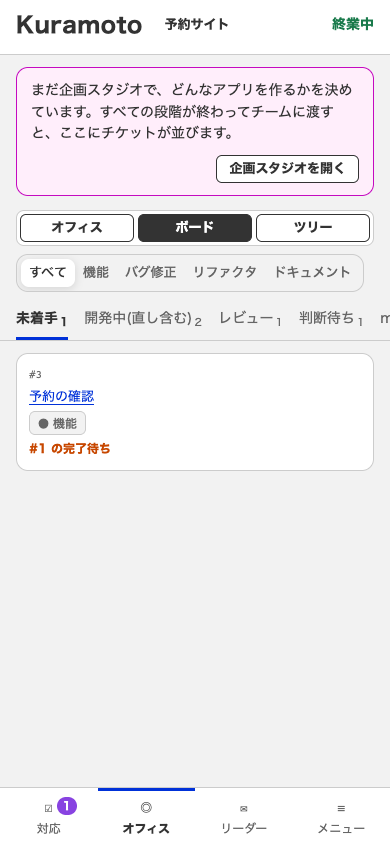
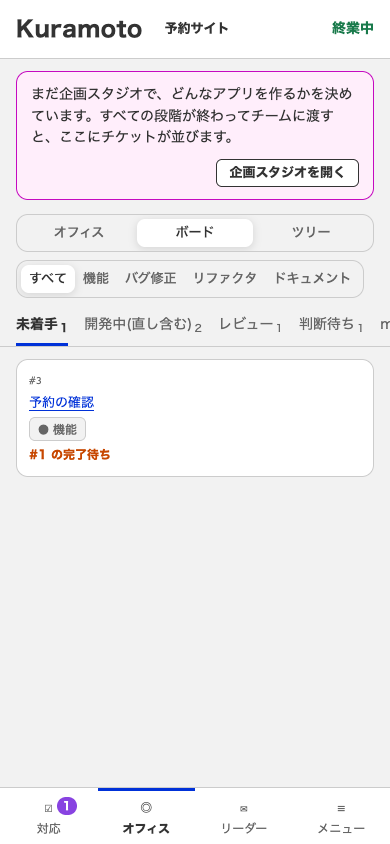
[fix] スマホ幅のオフィス/ボード/ツリーの切り替えを、試作どおりの均等幅のセグメントにする(#88)

Changed region(s): [[0.0308, 0.0, 0.9846, 0.5545], [0.9846, 0.3697, 1.0, 0.4005]]

diff --git a/ui/src/style.css b/ui/src/style.css
@@ -515,7 +515,6 @@ body { background: var(--bg); }
 .dads-bar .brand b { font-size: var(--fs-xl); letter-spacing: .02em; }
 .dads-bar .crumb { gap: 2px; }
 .dads-bar .crumb [aria-current="page"] { text-decoration: none; color: var(--ink); font-weight: 700; }
-.dads-bar .tabs { display: inline-flex; gap: 4px; padding: 0; border: 0; background: transparent; }
 .dads-bar .eff { font-size: var(--fs-base); color: var(--muted); }
 /* 共通ヘッダーの行き先は、どの画面でも同じ形・同じ位置の切り替えスイッチ(ds の SegmentNav。外枠が白、選んでいるのが灰) */
 .dads-bar .navsw { flex: none; }
@@ -1188,8 +1187,8 @@ body { background: var(--bg); }
 
 /* ---- 見方の切り替え(オフィス / ボード / ツリー)。パソコンでは右寄せの並び ---- */
 .viewhead { display: flex; align-items: center; gap: var(--sp-2); }
-/* パソコンの幅では、オフィス/ボード/ツリーの切り替えは共通ヘッダー(.viewtabs)に出す。枠の上のは、スマホの幅だけ */
-.viewsw { display: none; gap: var(--sp-1); margin-left: auto; }
+/* パソコンの幅では、オフィス/ボード/ツリーの切り替えは共通ヘッダー(.navsw)に出す。枠の上のは、スマホの幅だけ */
+.viewhead .viewsw { display: none; margin-left: auto; }
 .stagetabs, .tk-tabs, .phonebar, .phonemenu, .tk-phone, .tk-short, .tk-kindsheet { display: none; }
 /* 共通ヘッダーの引き出しのボタン: 包みは並びに影響させず、親(.bar)の gap でそのまま並べる */
 .drawerbtns { display: contents; }
@@ -1198,7 +1197,7 @@ body { background: var(--bg); }
 @media (max-width: 700px) {
   body { background: var(--bg); }
   /* スマホの試作(phone-home・phone-office・phone-board)は、ヘッダーが白い帯で、灰色の地の上に部品が白 */
-  .dads-bar { margin: calc(-1 * var(--sp-4)) calc(-1 * var(--sp-4)) 0; padding: var(--sp-3) var(--sp-4); background: var(--surface); border-bottom: 1px solid var(--line); }
+  .dads-bar { margin: calc(-1 * var(--sp-3)) calc(-1 * var(--sp-4)) 0; padding: var(--sp-3) var(--sp-4); background: var(--surface); border-bottom: 1px solid var(--line); }
   .app { padding-bottom: calc(72px + env(safe-area-inset-bottom, 0px)); }
   /* 上の行は「Kuramoto / プロジェクト名 / 稼働の状態」だけ。画面の切り替えと引き出しは、下のタブとメニューへ移す */
   .bar .tabs, .bar .navsw, .bar .drawerbtns, .bar .spacer, .bar .crumb .sep:first-of-type, .bar .crumb > .ds-btn:first-child { display: none; }
@@ -1239,8 +1238,9 @@ body { background: var(--bg); }
   /* ボード: 工程を上のタブ(件数つき、横にすべる)にして、1 列ずつ見る */
   .officepanel { background: none; border: 0; padding: 0; }
   .viewhead h2 { display: none; }
-  .viewsw { display: flex; flex: 1; margin-left: 0; padding: 3px; border: 1px solid var(--line); border-radius: var(--r-md); background: var(--surface); }
-  .viewsw > .ds-btn { flex: 1 1 0; min-width: 0; }
+  /* 試作(phone-board)どおり、幅いっぱいに均等に並ぶ切り替え(外枠が灰、選んでいるのが白) */
+  .viewhead .viewsw { display: flex; flex: 1; margin-left: 0; }
+  .viewhead .viewsw > .ds-seg__opt { flex: 1 1 0; min-width: 0; padding-inline: var(--sp-1); }
   .board-wrap { overflow-x: visible; }
   .kindbar .kindnote { display: none; }
   .stagetabs { display: flex; gap: var(--sp-4); overflow-x: auto; margin: 0 calc(-1 * var(--sp-4)) var(--sp-3); padding: 0 var(--sp-4); border-bottom: 1px solid var(--line); }

diff --git a/ui/src/OfficeViewSwitch.tsx b/ui/src/OfficeViewSwitch.tsx
@@ -1,6 +1,5 @@
 import { go } from "./hooks";
 import { setPhoneNav, usePhoneNav, type OfficeView } from "./phoneNav";
-import { Btn } from "./ui";
 import { SegmentNav, SegmentNavButton } from "./ds";
 
 export const OFFICE_VIEWS: Record<OfficeView, string> = { floor: "オフィス", board: "ボード", tree: "ツリー" };
@@ -11,21 +10,13 @@ export const OFFICE_VIEWS: Record<OfficeView, string> = { floor: "オフィス",
 export function OfficeViewSwitch({ className }: { className: string }) {
   const { view } = usePhoneNav();
   return (
-    <div role="group" aria-label="オフィスの見方" className={className}>
+    <SegmentNav label="オフィスの見方" className={className}>
       {(Object.keys(OFFICE_VIEWS) as OfficeView[]).map((v) => (
-        <Btn
-          key={v}
-          kind={view === v ? "solid-fill" : "outline"}
-          size="sm"
-          aria-pressed={view === v}
-          onClick={() => {
-            setPhoneNav({ view: v });
-          }}
-        >
+        <SegmentNavButton key={v} on={view === v} onClick={() => setPhoneNav({ view: v })}>
           {OFFICE_VIEWS[v]}
-        </Btn>
+        </SegmentNavButton>
       ))}
-    </div>
+    </SegmentNav>
   );
 }
 

diff --git a/docs/screenshots/88/README.md b/docs/screenshots/88/README.md
@@ -34,3 +34,4 @@
 - **スイッチの中身は 3 つだけ**: 試作の切り替えは オフィス / ボード / ツリー のみ。企画スタジオ・生産性・設定は試作のヘッダーに無い(metrics.html は文字の並び)。リーダーのメモ「オフィス以外も同じスイッチ形にそろえる」に従い、同じスイッチの右に 3 つ足して 1 つのスイッチにした(ここは試作と違う)。
 - **スイッチの外枠の色が試作で揃っていない**: office / board / tree は外枠が白+選択が灰、ticket / dev-rules / formation-* / metrics は外枠が灰+選択が白(白い面の上のスイッチ)。地が灰のヘッダーの上では前者が正で、白い面の上(ds の `Segmented`)は後者のまま。
 - 路線図の画面そのもの(オフィスの 1 画面の作り)はこのチケットの範囲外。オフィスの `compare_screen` は 11.5%・高さが違う(お手本 800px・実装 2386px)のは、あなたの対応・チケットを足す・指標などの区画が下に続くため。
+- **スマホ(390px)のオフィス/ボード/ツリーの切り替え**: 試作(phone-board.html)どおり、幅いっぱいに均等に並ぶセグメント(外枠が灰 --bg、選んでいるのが白 --surface と影)にした(レビュー指摘 #419 で差し替え)。パソコンのヘッダーのスイッチ(外枠が白・選択が灰)は灰の地の上、スマホのはパネル(白)の上なので、色の向きが逆になる。phone-office.html の切り替えは選択が黒地・白字だが、phone-board.html と 3 画面の整合(ds の Segmented と同じ形)を優先した。
